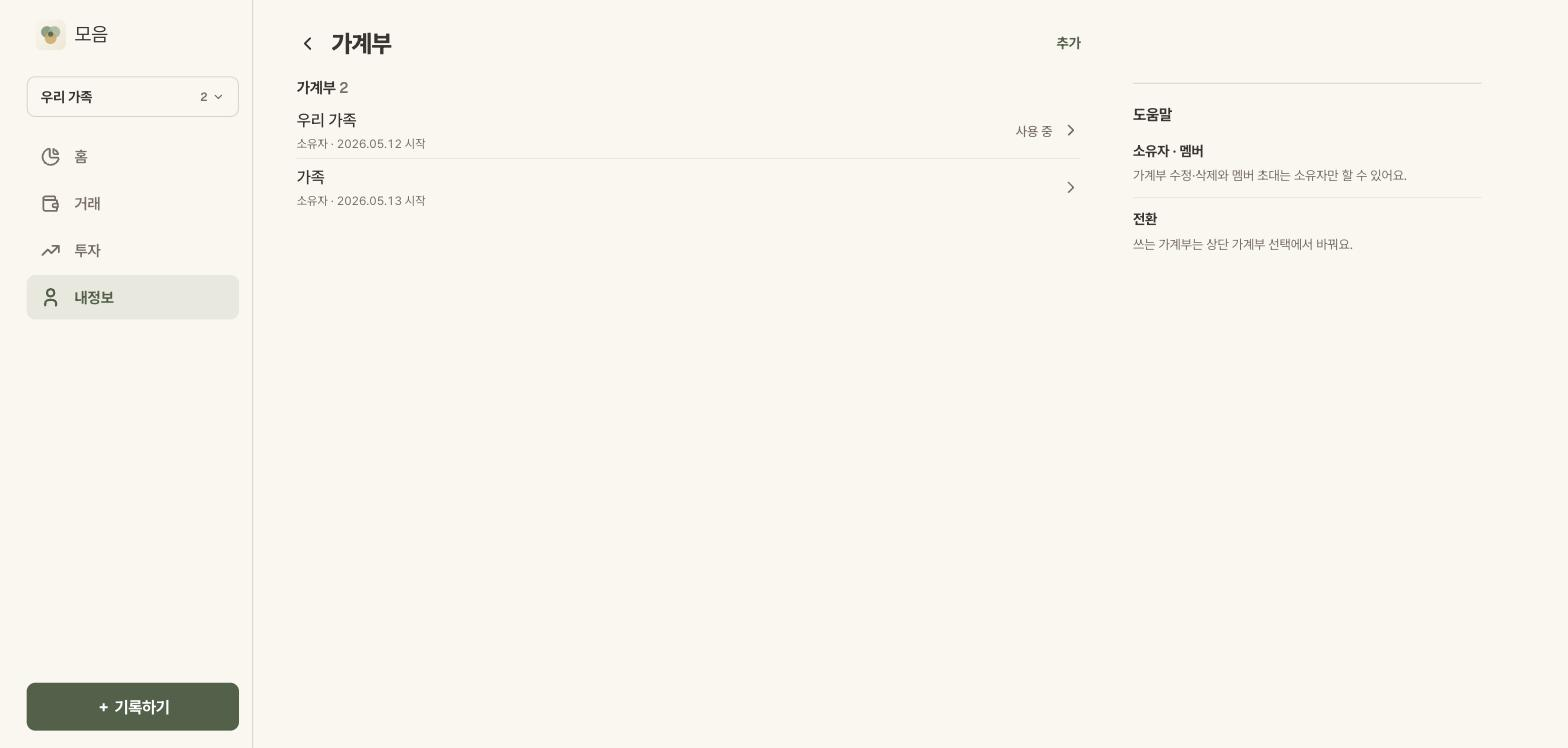
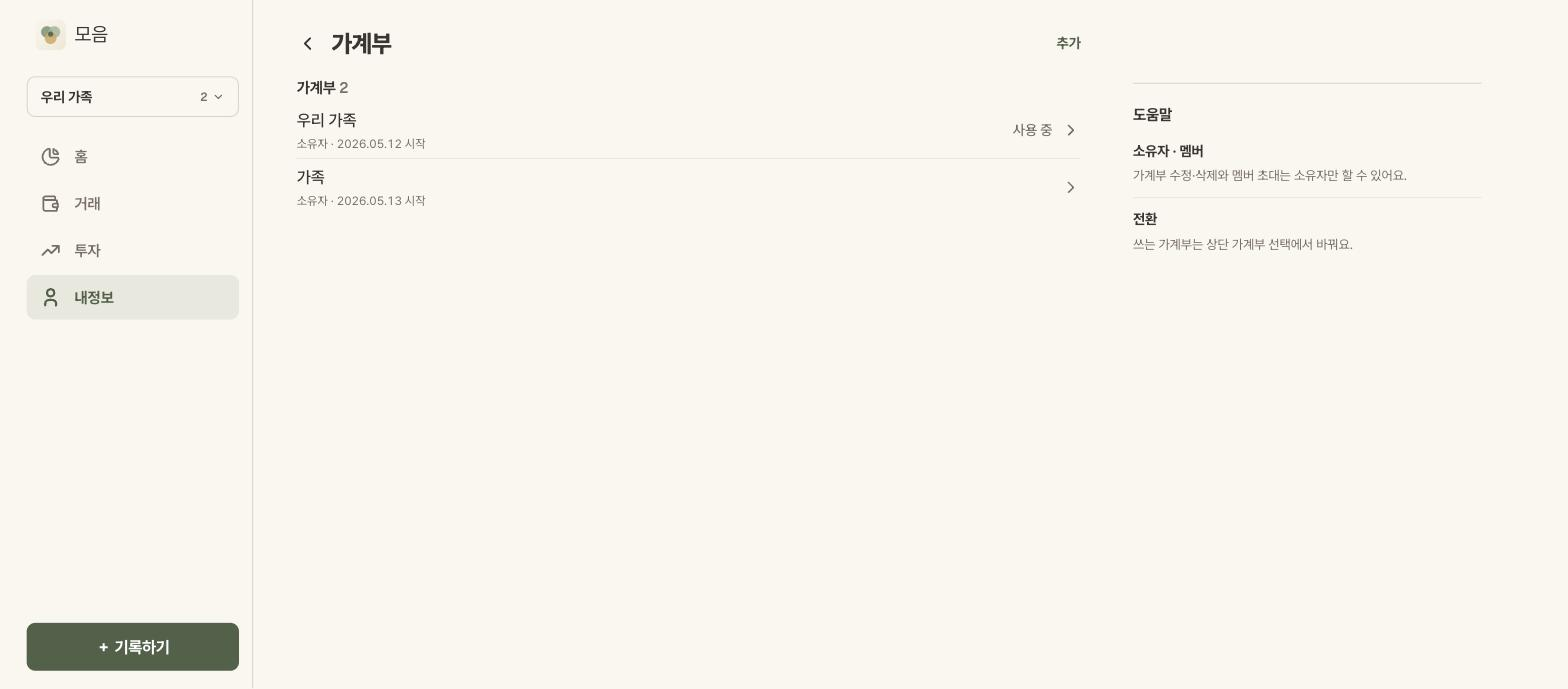
docs: 리디자인 배치5 S6 QA·DESIGN 폼 규칙 기록
qa/5.md(수정 14 · 기각 1 · 보류 8), shots 5장 재촬영, status·screens·figma-state 갱신.
DESIGN §5 에 ListRow valueText · Switch 행 · Select 색 점 · 상태 안내는 설명 줄,
결정 로그에 "백엔드에 없는 값은 폼에서 받지 않는다".

diff --git a/docs/design/redesign-20260911/qa/5.md b/docs/design/redesign-20260911/qa/5.md
@@ -1,0 +1,75 @@
+# QA redesign-20260911 배치5 — 2026-09-13 @2c691ba(감사) · 픽스 4f5e693
+토큰 신규 위반: 0(baseline 88 유지) · design-review(감사만 — 배치1~4 와 같은 방식) : **blocking 0 / 수정 14 / 기각 1 / 보류 8** · 사용자 "S6 까지 쭉" → 수정 14 전부 처리 · typecheck 0 · lint 0 · 콘솔 에러 0
+외부 시각: Codex(소스 감사 6) + Claude 서브에이전트(일관성 10 + HEAD 기준 4 — 작업 트리의 Codex 픽스로 이미 해결) — 겹친 것: 수정 모드 Select 다시 누르면 비워짐 · 옵션 조회 Suspense 가 폼을 가림 · 선택기 설명 미연결 · en "1th"
+디자인 점수: 감사 전 B(시안 배치 일치, 감점 = 수정에서 카테고리 비우기 저장 안 됨 · 멤버 행 무반응 설명 없음(모바일) · 일회성 12px 라벨) → 픽스 후 A-(남은 것 = 보류 8, 대부분 백엔드·실데이터) · AI slop A(카드 0 · 아이콘 박스 0 · 배지 0) · Litmus 7개 중 YES 6(모션 = 시트 전환뿐, 명세서 룩 의도)
+
+## 대조표
+| ID | handoff | shot | 차이 | 판정 |
+|---|---|---|---|---|
+| fixed/new | FixedSheet.png · FixedPageDesktop.png (정본 Figma 73:297) | shots/fixed-sheet.jpg · fixed-new-desktop.jpg | 이름(추가 첫 포커스) · 카테고리 Select(지출만 12개 · 항목 앞 6px 색 점 · 비우기) · 결제일 NumberInput + "일" `InputUnit`("32" → "3", 1~31 strict) · 색·아이콘(설명 "비우면 카테고리 색·아이콘", 원 아래 6 띄움) · 금액 없음(유령 필드 제거) · 레일 결제일 · 사용액 · 삭제 · 제출 X | ✅ |
+| fixed/[fixedId] | FixedSheetEdit.png (정본 73:406) | shots/fixed-sheet-edit.jpg | + 보관 Switch(라벨·설명 좌 · 스위치 우 · 행 44) · 비우기 설명 없음(수정은 비우기 불가) · [삭제][취소][수정] · 옛 shot 은 가로 오프셋 크롭이라 재촬영 · 제출 X | ✅(픽스 후) |
+| fixed(목록 보관 섹션) | Fixed.png (67:1285 "보관 1") | 코드 · Figma | 보관 N 섹션(제목·글리프 dim · 사용액 있을 때만 금액) — uitest 에 보관 항목이 없어 실렌더 못 봄(H-502) | 🟡 |
+| household | Household.png · HouseholdDesktop.png (정본 73:517) | shots/household.jpg · household-desktop.jpg | SubHeader(← 내정보 · 추가) · "가계부 N" · 행 = 이름 / 역할 · 시작일 · "사용 중" 본문 13/500 dim · 소유자만 chevron · 모바일 멤버 안내 한 줄(멤버 행 있을 때만 — uitest 는 전부 소유자라 렌더 조건만 확인) · 레일 역할 · 전환 · 검색·"멤버 0명"·카드 제거 | ✅(픽스 후) |
+| household/new | HouseholdSheet.png · HouseholdPageDesktop.png (정본 73:541) | shots/household-sheet.jpg · household-new-desktop.jpg | 이름 · 설명 Textarea(placeholder) · 시작일 `YYYY.MM.DD` KST 오늘 + 설명 · 통화 없음 · 레일 가계부 · 시작일 · 삭제 | ✅ |
+
+## blocking — 회귀·시안 불일치
+없음.
+
+## 수정 — 품질(시안은 맞음)
+| # | 발견 | 심각도 | 출처 | 수정 |
+|---|---|---|---|---|
+| F-501 | 수정 모드 카테고리 — `clearable={false}` 여도 고른 항목을 다시 누르면(`allowDeselect` 기본 true) null → 저장 "성공"인데 백엔드가 null 을 무시해 다시 열면 그대로 | high | codex · subagent | `allowDeselect={!isUpdate}` |
+| F-502 | 옵션(`formOptions`) `useSuspenseQuery` — 캐시 없이 실패하면 시트의 로딩 전용 Suspense 를 지나 라우트 에러로 목록·시트까지 사라짐, 페이지 모드는 폼 전체가 PageLoader | medium | codex · subagent | 비-Suspense `useQuery` — 늦거나 실패해도 이 필드만 비활성 |
+| F-503 | 보관 Switch 누를 수 있는 높이 ~40(트랙 20) — DESIGN §4 44 미달 | medium | codex | 테마 Switch `body` minHeight 44 · 가운데 정렬 |
+| F-504 | 색·아이콘 선택기 설명이 그룹에 연결 안 됨 — 스크린리더가 "다시 누르면 비움"을 못 읽음 | medium(a11y) | codex · subagent | `descriptionProps.id` + 그룹 `aria-describedby` |
+| F-505 | 빈 카테고리 문구 "카테고리가 없어요" — 수입만 있을 때도 뜸 · 비활성 placeholder 라 대비 ~2:1 | low | codex · subagent | "지출 카테고리가 없어요 — 비워 둬도 돼요" 를 **설명 줄**로(불러오는 중 = placeholder, 실패 = 설명 "불러오지 못했어요") |
+| F-506 | en `day_unit` "th" → "1th · 2th · 21th" | low | codex · subagent | `""` — 단위 없으면 `InputUnit` 자체를 안 그림 |
+| F-507 | 멤버 행이 왜 안 눌리는지 모바일엔 설명 없음(레일 도움말은 `visibleFrom="lg"`) — chevron 만 빠진 같은 행 | high | subagent | 모바일(`hiddenFrom="lg"`) 목록 아래 13 dim 한 줄 = 레일 `role_body` 문구, 멤버 행이 있을 때만. Figma 73:517 `OwnerHint (mobile)` 75:174 |
+| F-508 | "사용 중" 이 값 자리에서 인라인 `fontSize:12` + 본문 서체 덮어쓰기 — 12 는 §3 스케일 밖, 일회성 | medium | subagent | `ListRow valueText` — 글자 값은 본문 서체 13/500(모노는 한글 사이 공백이 벌어져 실측 후 채택) · DESIGN §5 ListRow 갱신 · Figma 값 13 |
+| F-509 | 계획 ③ "항목 앞 6px 색 점" 미구현 · 로딩 중에도 "선택 안 함"+비활성이라 '없음'처럼 보임 | medium | subagent | `renderOption` 색 점(목록 lead 와 같은 색, 체크 표시는 직접 그림) · 로딩 placeholder "불러오는 중..." |
+| F-510 | 숨긴 통화에 `z.string().min(3).max(3)` 이 남아 상세 currency 가 3글자가 아니면 보이지 않는 에러로 저장이 조용히 막힘 | medium | subagent | 검증 삭제(값은 상세 그대로 돌려보냄) |
+| F-511 | 선택기 설명이 그리드 음수 마진 탓에 원 바로 아래 ~2px 에 붙음 | low | subagent | 설명 `mt 6`(색·아이콘 같게) |
+| F-512 | Switch 행 레이아웃(`space-between` · `labelWrapper flex 1` · `labelPosition left`)이 호출부에만 — 다음 Switch 는 모양이 달라짐 | low | subagent | 테마 `Switch.extend` defaultProps + styles 로 이동 · DESIGN §5 |
+| F-513 | 보관 행 제목만 dim 이고 lead 글리프는 원래 색 — 활성처럼 읽힘 | low | subagent | 보관 행 lead 색 null(= dim). Figma 69:394 글리프 dim |
+| F-514 | en 새 문구 "ledger" vs 기존 "Household" 섞임 | low | subagent | 새 문구 5개 household 로 통일 |
+
+## 기각
+| 발견 | 이유 |
+|---|---|
+| 고정지출 목록 첫 섹션이 hero 바로 아래인데 hairline 기본값(true) — Section 주석 "hero 바로 아래면 false" (subagent) | compact hero 뒤 첫 Section 은 계좌 상세(account-portfolio) · 계좌 리포트도 기본 구분선 — 코드 관례 · 배치4 승인 shot · Figma 67:1285 와 같음. 주석이 관례보다 좁게 적힌 것(룰 구멍 메모) |
+
+## 보류 · 결정 필요
+| # | 내용 | 제안 |
+|---|---|---|
+| H-501 | 수정에서 카테고리·색·아이콘을 비울 수 없음 — 백엔드 `update_fixed_expense` 가 `if req.x is not None` 이라 null = "안 바꿈" | moeum-back 에서 `model_fields_set` 로 "보낸 null = 비움" 구분(백엔드 변경 — 묻고 진행). 그전까지 프론트는 추가에서만 비우기 |
+| H-502 | 보관 섹션을 실데이터로 못 봄 — uitest 에 보관 항목 0, 켜려면 수정 제출 필요(QA 는 제출 X) | 사용자가 한 항목을 보관해 보거나, 테스트 데이터 허락 시 보관 1건 만들어 확인 |
+| H-503 | 카테고리 옵션 실패 시 "다시 시도" 없음(React Query 자동 재시도 후 설명만) · 지출 카테고리 0 이면 카테고리 관리로 가는 링크 없음 | 선택 항목이라 유지. 필요하면 설명 줄을 AccentLink(카테고리 관리)로 |
+| H-504 | 선택기 `aria-pressed`(토글 의미)인데 수정 모드에선 다시 눌러도 안 풀림 | 라디오 동작과 같아 체감 문제 없음. 정확히 하려면 `role=radio` + `aria-checked` 로 전환(선택기 공통 — 배치 밖) |
+| H-505 | 가계부 전환기(household-switcher)가 sage/terracotta 를 직접 씀 | 셸 배치에서 의미색으로 |
+| H-506 | 종목 폼 설명 순서(label · input · description) | 배치7 종목 폼에서 |
+| H-507 | 가계부 목록 응답에 멤버 수 없음 — "멤버 N명" 표시 불가 | 필요하면 백엔드 HouseholdResponse 에 member_count |
+| H-508 | 참조 0 파일·키: `household/components/search.tsx`(지운 `search_term*` 키를 참조) · `household/components/table.tsx` · `household/hooks/use-sub/use-search.ts` · `HouseholdSearchRequestType` · ko/en `fixed.search_term`·`search_term_placeholder` | 삭제는 사용자 확인 후. `household.member_count` 는 전환기가 써서 유지 |
+
+## 픽스 검증 (4f5e693, 1440 · 390 iframe)
+| # | 실측 |
+|---|---|
+| F-501 | 코드 `allowDeselect={!isUpdate}` · `clearable={!isUpdate}` (수정 시트 제출 X 라 저장 왕복은 코드 근거) |
+| F-502·505·509 | 1440 `/ko/fixed/new` 드롭다운: 지출 12개 · 항목마다 6px 색 점 · 고른 "교통" 에 체크 + 점 · 입력 우측 비우기 × |
+| F-503·512 | 390 수정 시트: "보관" 라벨·설명 좌 · 스위치 우 끝 · 호출부 styles 없음(테마) |
+| F-504 | 390 `/ko/fixed/new`: 색 그룹 `aria-describedby` → "비우면 카테고리 색·아이콘을 써요(다시 누르면 비움)" · margin-top 6px. 아이콘 그룹은 설명이 없어(공용 한 줄이 색 아래) 연결 없음 — 아이콘에도 읽히게 하려면 선택기에 외부 설명 id prop(보류 H-504 와 같이) |
+| F-506 | 코드: `t("day_unit")` 가 빈 문자열이면 `rightSection` undefined(next-intl 빈 문자열 그대로 반환은 서브에이전트 확인) |
+| F-507 | 조건 `items.some(role !== OWNER)` — uitest 2개 모두 소유자라 미표시(정상), Figma 390 에 멤버 행 + 안내 |
+| F-508 | 1440·390 "사용 중" 13px/500 본문 서체 dim, 공백 정상 |
+| F-510 | zod 스키마 name 만 |
+| F-511 | 설명 margin-top 6px(computed, F-504 행) |
+| F-513 | Figma 69:394 글리프 dim · 코드 lead color null |
+| F-514 | en.json "ledger" 새 문구 0(기존 `transactions.ledger` "Transactions" 는 다른 뜻) |
+
+typecheck 0 · lint 0 · 토큰 신규 0(baseline 88) · 콘솔 에러 0(fixed · fixed/new · household) · shots 5장 재촬영(fixed-sheet · fixed-sheet-edit · fixed-new-desktop · household · household-desktop)
+중간 사고: `/ko/household` 500 "module factory is not available … HMR" — dev 서버 옛 컴파일(재시작 후 200, 배치3·4 와 같은 증상). 코드 원인 아님.
+
+## 룰 구멍 메모
+- Section 주석 "화면 첫 섹션이 hero 바로 아래면 false" 가 실제 관례(compact hero 뒤는 구분선 유지, 큰 hero·레일 첫 섹션만 false)보다 넓어 감사가 오탐 — 주석을 관례대로 좁히거나 DESIGN §5 Section 에 한 줄.
+- 서브에이전트 감사가 작업 트리 변경(Codex 픽스 반영 중)과 겹쳐 4건이 중복 보고 — 두 외부 시각은 **같은 커밋 기준**으로 돌리고, 픽스는 둘 다 끝난 뒤 반영.
+- Mantine `renderOption` 은 체크 아이콘까지 대신 그린다(기본 content 교체) — 색 점 같은 장식을 넣으면 `checked` 표시를 직접.
+- 숨은 창에서 Drawer 는 rAF 가 멈춰 JS `click()` 로 연 상태가 화면에 늦게 뜸 → 그 사이 실제 클릭이 오버레이를 눌러 닫음. 시트 shot 은 **한 가지 방법으로만 열고** screenshot 으로 프레임을 돌려 기다린다.

diff --git a/DESIGN.md b/DESIGN.md
@@ -104,7 +104,7 @@
 | `Section` | `Card` 대신 사용. 상단 헤어라인 + 헤더 행(제목 14/700 · 우측 링크 accent 12/600) + children |
 | `AccentLink` | accent 텍스트 링크 — `section` 12/600(섹션 헤더) · `header` 13/700(페이지·서브 헤더 "+ 추가"·"수정"). 히트 32(패딩+음수 마진). 로컬 스타일 복붙 금지 (배치2 S6) |
 | 모노 라벨 | 11/16 · `.06em` 은 `className="moeum-mono moeum-label"` 한 곳(globals). 인라인 `{fontSize:11, letterSpacing}` 복붙 금지 (배치2 S6) |
-| `ListRow` | 46px, 제목 15/500(Figma ListRow 11:2 기준, S6 정정) / 메타 11 dimmed, 우측 금액 모노 14/600(의미색), 행 구분 `--moeum-hair-2`, 아이콘 박스 없음(카테고리 색은 제목 앞 6px 점). 예외 = 관리 목록(카테고리·고정지출)의 `lead` — 18px 글리프(사용자가 고른 아이콘 · 카테고리 색 · stroke 2 · 장식이라 `aria-hidden`), 선택기 16개 밖 이름은 같은 자리 6px 점. 사용자 아이콘이 보이는 유일한 자리(배치4 pick A) |
+| `ListRow` | 46px, 제목 15/500(Figma ListRow 11:2 기준, S6 정정) / 메타 11 dimmed, 우측 금액 모노 14/600(의미색) — 값이 글자 라벨("사용 중")이면 `valueText` 본문 서체 13/500, 행 구분 `--moeum-hair-2`, 아이콘 박스 없음(카테고리 색은 제목 앞 6px 점). 예외 = 관리 목록(카테고리·고정지출)의 `lead` — 18px 글리프(사용자가 고른 아이콘 · 카테고리 색 · stroke 2 · 장식이라 `aria-hidden`), 선택기 16개 밖 이름은 같은 자리 6px 점. 사용자 아이콘이 보이는 유일한 자리(배치4 pick A) |
 | `DeltaPill` | 배경 없음. `▲ 3,240,000` 모노 + 색. `asset`(up/down) / `ledger`(income/expense) |
 | `StatRow` | "왜 늘었나" 2행: 제목/메타 + 우측 금액 + 2px 기여 막대(accent / up) |
 | `Sparkline` | 44px, 축 없음, 1.5px 선, 마지막 점 강조(탭 가능하면 각 점 2px) |
@@ -113,7 +113,7 @@
 | 셸 | 모바일 헤더 48(브랜드 accent 15/800 · 우측 모노 기준일 · 가계부 pill) · 탭바 64(bg 배경 · 상단 hair · 활성 accent) · `＋ 기록` 8px 라운드 accent 버튼 40px(탭바 위 우측, 홈·거래) / 데스크톱 사이드바 220(활성 = accent-soft 배경 + accent 텍스트, 하단 "기록하기") |
 | 시트 · 모달 | 바텀시트 448 · 상단 16 · 핸들 40×4 hair / 데스크톱 모달 560(같은 Drawer 를 CSS `@media` 로 가운데), surface 배경, 높이는 내용에 맞춤(최대 90dvh, 넘치면 안에서 스크롤 + 푸터 sticky). 제목은 `Drawer.Title`(다이얼로그 이름). **시트가 탭바를 덮는다** — z: 헤더 30 < FAB 150 < 탭바 190 < Drawer/Modal 200 < 드롭다운 300·1100 (배치2 S6 B-3) |
 | 상태 | 로딩 = `SectionSkeleton`(페이지 `hero rows={3}` · 보조 섹션 `rows`/`chart`, 실제 레이아웃 모양) · 에러 = 보조 섹션은 `SectionBoundary`(섹션 제목 + "불러오지 못했어요 · 다시 시도"), 화면 주 쿼리는 (user)/error.tsx · 빈 = `EmptyText`(문장 "~어요" + 행동 링크) |
-| 폼 필드 | filled surface-2 · 높이 44 · 라운드 8. 라벨 13/500 dim(설명 12 보다 커야 함 — 배치2 S5 피드백으로 11→13), 금액 입력만 모노 28 · 높이 56. 세그먼트에 `color` 채움 금지(흰 인디케이터 위 흰 글자) → 의미색은 라벨 글자에. 숫자 입력은 상태 0 이어도 빈 칸 + placeholder `0`, 단위(원·주)는 우측 dim 13. 선택지 3개 이하는 Select 대신 세그먼트. 색 선택 = 원 28(히트 44) · 6열 · 선택 본문색 2px 링은 box-shadow(outline 은 키보드 포커스 몫, 팔레트는 `palette.ts` `USER_COLOR_PALETTE` — 저장되는 데이터), 아이콘 선택 = 8열 · 높이 44 · 선택 accent-soft + accent 2px 안쪽 테두리. 묶음은 `role=group` + 라벨 연결. 폼 필드 간격 14. 페이지 모드(fallback 라우트) 폼은 Card 없이 **앱 격자 그대로 — 좌 폼 칼럼(720) · 우 레일 `FormGuide` 도움말**(용어 뜻 · 계산 방식 · 삭제 조건, `aside`). 문구가 아직 없는 폼은 레일을 비운다. 배치3 의 "560 본문 가운데"는 목록·상세가 전부 좌 720 + 레일 320 이라 폼만 격자를 깨서 대체(배치4 사용자 피드백). 시트·모달(560)엔 도움말 없음 |
+| 폼 필드 | filled surface-2 · 높이 44 · 라운드 8. 라벨 13/500 dim(설명 12 보다 커야 함 — 배치2 S5 피드백으로 11→13), 거래 기록의 금액 한 칸만 모노 28 · 높이 56(시작 잔액·단가·수수료는 44 필드 — 배치3 H-303). 세그먼트에 `color` 채움 금지(흰 인디케이터 위 흰 글자) → 의미색은 라벨 글자에. 숫자 입력은 상태 0 이어도 빈 칸 + placeholder `0`, 단위(원·주·일)는 우측 dim 13 `InputUnit`(누르면 인풋 포커스). 선택지 3개 이하는 Select 대신 세그먼트. 색 선택 = 원 28(히트 44) · 6열 · 선택 본문색 2px 링은 box-shadow(outline 은 키보드 포커스 몫, 팔레트는 `palette.ts` `USER_COLOR_PALETTE` — 저장되는 데이터), 아이콘 선택 = 8열 · 높이 44 · 선택 accent-soft + accent 2px 안쪽 테두리. 묶음은 `role=group` + 라벨 연결. 비워 둘 수 있는 선택(고정지출 색·아이콘 = 카테고리 것 따름)은 고른 칸을 다시 눌러 비움. 켜고 끄는 값은 Switch(라벨 13/500 dim · 설명 12, 오른쪽 스위치 · 행 높이 44 — 테마 기본값이라 호출부에 레이아웃을 쓰지 않는다). 사용자 색이 있는 선택지(카테고리)는 Select 항목 앞 6px 색 점. 상태 안내(불러오는 중 · 없음 · 실패)는 비활성 placeholder 가 아니라 설명 줄에. 폼 필드 간격 14. 페이지 모드(fallback 라우트) 폼은 Card 없이 **앱 격자 그대로 — 좌 폼 칼럼(720) · 우 레일 `FormGuide` 도움말**(용어 뜻 · 계산 방식 · 삭제 조건, `aside`). 문구가 아직 없는 폼은 레일을 비운다. 배치3 의 "560 본문 가운데"는 목록·상세가 전부 좌 720 + 레일 320 이라 폼만 격자를 깨서 대체(배치4 사용자 피드백). 시트·모달(560)엔 도움말 없음 |
 | 버튼 | filled = accent + `on-accent`(라이트 흰 / 다크 딥브라운), outline = hair 테두리, subtle = accent 텍스트. 높이 36/44/52. 삭제 = subtle `danger` — 폼 푸터 **좌측** auto 폭, 취소·저장과 한 줄(`FormActions`, 배치3). 글자색은 `--mantine-color-danger-text`(다크 primaryShade 4 에서 Mantine light-color 가 danger.0 로 풀림), 비활성은 배경 투명(`.moeum-remove-action`). 기록·저장 버튼은 매수/매도여도 accent(의미색은 세그먼트 글자에만). 아이콘 버튼 히트 44 |
 
 ## 6. 모션
@@ -146,3 +146,4 @@
 | 2026-09-11 | 금액 = Geist Mono | 자릿수 물리 정렬, "명세서" 인상. 폰트 1개 추가 로드 감수 |
 | 2026-09-13 | 폼 페이지 = 좌 폼 · 우 도움말 레일 | 배치3 가운데 560 이 목록·상세의 좌 720 + 레일 320 격자와 어긋남(사용자 피드백). 레일엔 폼별 도움말 2~3항목 |
 | 2026-09-13 | 관리 목록 행 앞 18px 아이콘 글리프 | 아이콘 박스를 걷으면 사용자가 고른 아이콘이 앱 어디에도 안 보임 — 카테고리·고정지출 목록만 예외(사용자 pick A) |
+| 2026-09-13 | 관리 폼에서 백엔드에 없는 값은 받지 않는다 | 배치5 pick A·A·A — 고정지출 금액·가계부 통화 입력 제거(저장·계산에 안 쓰임), 가계부 목록은 소유자 행만 수정 진입(백엔드 HOUSEHOLD_NOT_OWNER). 수정에서 비우기는 막음(백엔드가 null 을 "안 바꿈"으로 받음) |

diff --git a/docs/design/redesign-20260911/status.md b/docs/design/redesign-20260911/status.md
@@ -25,6 +25,7 @@ look=교체(Warm Ledger→Statement·Warm)  figma=full  fileKey=j1xaab6icKdvERz6
 | 배치5 S3 | ✅ | 계획표 plan/5.md(fixed/new · fixed/[fixedId] · household · household/new) · 감사 = 코드 + **백엔드 스키마 대조**(배치4 룰 구멍 반영): 고정지출 금액 유령 필드 · 카테고리 연결 입력 없음 · 보관 UI 없음 · 가계부 검색 폼 무동작 · "멤버 0명"(응답에 memberCount 없음) · 수정·삭제 소유자만 · 통화 자유 입력 무효과 · 가설 = 배치1 pick A+C 확장(재생성 없음) · handoff/5 = 12 아트보드(*.dc.html + gen.py(배치4 헬퍼 exec) + canvas.json) + shots/12 png(헤드리스 크롬) · 캔버스 https://claude.ai/code/artifact/e0a8a359-4e97-4588-9f5f-3fdc12e4fa10 · 결정 3: ① 고정지출 금액 A 제거 / B 백엔드 추가 ② 통화 A 제거 / B 읽기 전용 ③ 가계부 멤버 행 A 수정 불가 / B 탭 = 전환 · pick=A·A·A(사용자 — 금액 제거 · 통화 제거 · 소유자 행만 수정) @21b3f45 · 사용자 ✅ 2026-09-13 | 2026-09-13 |
 | 배치5 S4 | ✅ | node-id 4 (페이지 "배치5 · 390" 73:296 — fixed/new 73:297 · fixed/[fixedId] 73:406 · household 73:517 · household/new 73:541) · 배치3·4 부품 복제(카테고리 시트 67:1061·67:1172 · 거래 시트 Field/카테고리 46:657 · Field/날짜 46:663 · 통장 시트 Field/시작 잔액 60:161 단위) · get_design_context OK 2/4 실측(73:406 · 73:541 — var(--moeum-*) · 컴포넌트 설명) + 나머지 2 는 같은 부품 복제 · 미바인딩 solid 0/4 · 신규 레이어: Field/보관(Switch/off = surface-2 · hair · text-dim 변수) · 곁가지: fixed 67:1285 보관 섹션(실손보험 → "보관 1", 제목 dim · 금액 숨김, 캡션 "기록 4개 · 미기록 1개") · 사용자 "S6 까지 쭉" | 2026-09-13 |
 | 배치5 S5 | ✅ | 코드 · 커밋 공통 InputUnit 465dc61 · 고정지출 폼 cca6ce4 · 고정지출 목록 보관 87002da · household f864585 · household 폼 1690b7f — 공통: `InputUnit`(원·주·일, 5곳 교체 — 종목 현재가·수동자산의 12px pr 8 변형 통일, H-304) · ColorPicker/IconPicker `onClear`·`description` · 테마 Switch 라벨 13/500 dim / 고정지출 폼: 금액 제거(유령 필드, 타입·폼·i18n) · 지출 카테고리 Select(거래 form-options 캐시 공유, 없으면 비활성) · 결제일 1~31 정수 + "일" · 수정만 보관 Switch · 색·아이콘 비우기는 추가만(백엔드 수정이 null 을 "안 바꿈") · 도움말 레일 / 목록: "보관 N" 섹션(제목 dim · 사용액 있을 때만 금액) / household: Card·검색 폼·"멤버 0명" 제거 → "가계부 N" ListRow(역할 · 시작일 · "사용 중") · 소유자 행만 수정 · 레일 도움말 · 스켈레톤 / household 폼: 통화 제거 · 설명 `?? ""`(H-307 경고 0) · 시작일 YYYY.MM.DD + 설명 · 기본값 KST 오늘(UTC 버그 — 00:28 에 09.12 로 뜸) · 간격 14 · 도움말 레일 — 검증: typecheck 0 · lint 0 · 콘솔 0(fixed/new · household · household/new — dev 서버 SSR useContext 증상 1회 → 재시작 후 0) · 결제일 키 입력 "32" → "3"(strict) · "25" · 카테고리 옵션 = 지출 12 · 가계부 수정 시트 열기만(제출 X) · 고정지출 추가·수정 시트 열기만 · shots 8장 | 2026-09-13 |
+| 배치5 S6 | 🟡 | qa/5.md · 감사 @2c691ba · 픽스 4f5e693 · DESIGN(이 커밋) — 토큰 신규 0 · typecheck·lint 0 · 콘솔 0 · /design-review 감사만 + Codex(6) · 서브에이전트(10) · blocking 0 · 수정 14(수정 모드 Select 다시 누르면 비워짐 → allowDeselect · 옵션 비-Suspense · Switch 44·행 레이아웃 테마 · 선택기 설명 연결·간격 · 빈/로딩/실패 안내는 설명 줄 · 색 점 · 숨은 통화 검증 제거 · 멤버 행 모바일 안내 · "사용 중" ListRow valueText · 보관 글리프 dim · en 용어) · 기각 1(hero 아래 구분선 — 계좌 화면 관례) · 보류 8(H-501 수정 비우기 = 백엔드 · H-502 보관 실데이터 · H-508 참조 0 파일 삭제 확인) · shots 5장 재촬영 · Figma 동기화 4 | 2026-09-13 · 사용자 ✅ 대기 |
 | 마감 | ⬜ | qa/final.md | |
 
 상태: ⬜ 미완 · 🟡 진행 중 · 🟡 산출물 있음·승인 전 · ✅ 통과(식별자 필수) · ⏭ 해당없음. 식별자가 바뀌면 그 뒤 ✅ 는 ⬜ 로. 배치가 늘면 행을 복사한다.

diff --git a/docs/design/redesign-20260911/screens.md b/docs/design/redesign-20260911/screens.md
@@ -18,9 +18,9 @@
 | category/[categoryId] | /category/[categoryId] | P2 | 4 | 로그인·uitest 데이터 · 390/1440 | 67:1172 | 07c7332·fe62426 | category-sheet.jpg |
 | category/new | /category/new | P2 | 4 | 로그인·uitest 데이터 · 390/1440 | 67:1061 | fe62426·07c7332 | category-new-desktop.jpg |
 | fixed | /fixed | P2 | 4 | 로그인·uitest 데이터 · 390/1440 | 67:1285 | a0b6f03·87002da | fixed.jpg·fixed-desktop.jpg |
-| fixed/[fixedId] | /fixed/[fixedId] | P2 | 5 | 로그인·uitest 데이터 · 390/1440 | 73:406 | cca6ce4 | fixed-sheet-edit.jpg |
-| fixed/new | /fixed/new | P2 | 5 | 로그인·uitest 데이터 · 390/1440 | 73:297 | cca6ce4 | fixed-sheet.jpg·fixed-new-desktop.jpg |
-| household | /household | P2 | 5 | 로그인·uitest 데이터 · 390/1440 | 73:517 | f864585 | household.jpg·household-desktop.jpg |
+| fixed/[fixedId] | /fixed/[fixedId] | P2 | 5 | 로그인·uitest 데이터 · 390/1440 | 73:406 | cca6ce4·4f5e693 | fixed-sheet-edit.jpg |
+| fixed/new | /fixed/new | P2 | 5 | 로그인·uitest 데이터 · 390/1440 | 73:297 | cca6ce4·4f5e693 | fixed-sheet.jpg·fixed-new-desktop.jpg |
+| household | /household | P2 | 5 | 로그인·uitest 데이터 · 390/1440 | 73:517 | f864585·4f5e693 | household.jpg·household-desktop.jpg |
 | household/new | /household/new | P2 | 5 | 로그인·uitest 데이터 · 390/1440 | 73:541 | 1690b7f | household-sheet.jpg·household-new-desktop.jpg |
 | household/[householdId] | /household/[householdId] | P2 | 6 | 로그인·uitest 데이터 · 390/1440 | | | |
 | household/[householdId]/members | /household/[householdId]/members | P2 | 6 | 로그인·uitest 데이터 · 390/1440 | | | |
